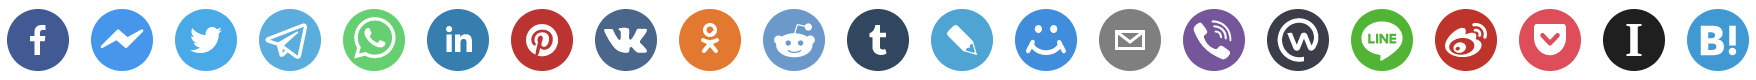
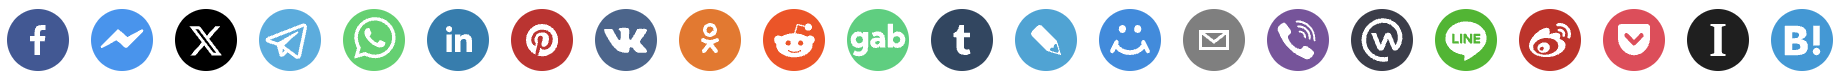
add GabShareButton and GabIcon
https://github.com/nygardk/react-share/pull/425

diff --git a/src/GabIcon.ts b/src/GabIcon.ts
@@ -1,0 +1,9 @@
+import createIcon from './hocs/createIcon';
+
+const GabIcon = createIcon({
+  color: '#00d178',
+  networkName: 'gab',
+  path: 'm17.0506,23.97457l5.18518,0l0,14.23933c0,6.82699 -3.72695,10.09328 -9.33471,10.09328c-2.55969,0 -4.82842,-0.87286 -6.22084,-2.0713l2.07477,-3.88283c1.19844,0.81051 2.33108,1.29543 3.85511,1.29543c2.75366,0 4.44049,-1.97432 4.44049,-4.82149l0,-0.87286c-1.16728,1.39242 -2.81947,2.0713 -4.63446,2.0713c-4.44048,0 -7.81068,-3.68885 -7.81068,-8.28521c0,-4.59289 3.37019,-8.28174 7.81068,-8.28174c1.81499,0 3.46718,0.67888 4.63446,2.0713l0,-1.55521zm-3.62997,11.39217c1.97777,0 3.62997,-1.6522 3.62997,-3.62652c0,-1.97432 -1.6522,-3.62305 -3.62997,-3.62305c-1.97778,0 -3.62997,1.64873 -3.62997,3.62305c0,1.97432 1.65219,3.62652 3.62997,3.62652zm25.7077,4.13913l-5.18518,0l0,-1.29197c-1.00448,1.13264 -2.3969,1.81152 -4.21188,1.81152c-3.62997,0 -5.63893,-2.52504 -5.63893,-5.4034c0,-4.27076 5.251,-5.85715 9.78846,-4.49937c-0.09698,-1.39241 -0.9733,-2.39343 -2.78829,-2.39343c-1.26426,0 -2.72248,0.48492 -3.62997,1.00102l-1.5552,-3.72003c1.19844,-0.77587 3.40136,-1.55174 5.96452,-1.55174c3.78931,0 7.25648,2.13365 7.25648,7.95962l0,8.08777zm-5.18518,-6.14809c-2.42806,-0.77587 -4.66563,-0.3533 -4.66563,1.36124c0,1.00101 0.84168,1.6799 1.84616,1.6799c1.20191,0 2.56315,-0.96984 2.81947,-3.04115zm13.00626,-17.66495l0,9.83695c1.16727,-1.39242 2.81946,-2.0713 4.63445,-2.0713c4.44048,0 7.81068,3.68885 7.81068,8.28174c0,4.59636 -3.37019,8.28521 -7.81068,8.28521c-1.81499,0 -3.46718,-0.67888 -4.63445,-2.0713l0,1.55174l-5.18519,0l0,-23.81304l5.18519,0zm3.62997,19.67391c1.97777,0 3.62997,-1.6522 3.62997,-3.62652c0,-1.97432 -1.6522,-3.62305 -3.62997,-3.62305c-1.97778,0 -3.62997,1.64873 -3.62997,3.62305c0,1.97432 1.65219,3.62652 3.62997,3.62652zm0,0',
+});
+
+export default GabIcon;

diff --git a/demo/Demo.tsx b/demo/Demo.tsx
@@ -9,6 +9,8 @@ import {
   FacebookMessengerShareButton,
   FacebookShareButton,
   FacebookShareCount,
+  GabIcon,
+  GabShareButton,
   HatenaIcon,
   HatenaShareButton,
   HatenaShareCount,
@@ -178,6 +180,18 @@ class Demo extends Component {
           <div>
             <RedditShareCount url={shareUrl} className="Demo__some-network__share-count" />
           </div>
+        </div>
+
+        <div className="Demo__some-network">
+          <GabShareButton
+            url={shareUrl}
+            title={title}
+            windowWidth={660}
+            windowHeight={640}
+            className="Demo__some-network__share-button"
+          >
+            <GabIcon size={32} round />
+          </GabShareButton>
         </div>
 
         <div className="Demo__some-network">

diff --git a/src/GabShareButton.ts b/src/GabShareButton.ts
@@ -1,0 +1,30 @@
+import assert from './utils/assert';
+import objectToGetParams from './utils/objectToGetParams';
+import createShareButton from './hocs/createShareButton';
+
+function gabLink(url: string, { title }: { title?: string }) {
+  assert(url, 'gab.url');
+
+  return (
+    'https://gab.com/compose' +
+    objectToGetParams({
+      url,
+      text: title,
+    })
+  );
+}
+
+const GabShareButton = createShareButton<{ title?: string }>(
+  'gab',
+  gabLink,
+  props => ({
+    title: props.title,
+  }),
+  {
+    windowWidth: 660,
+    windowHeight: 640,
+    windowPosition: 'windowCenter',
+  },
+);
+
+export default GabShareButton;

diff --git a/src/index.ts b/src/index.ts
@@ -28,6 +28,8 @@ export { default as PocketIcon } from './PocketIcon';
 export { default as PocketShareButton } from './PocketShareButton';
 export { default as RedditIcon } from './RedditIcon';
 export { default as RedditShareButton } from './RedditShareButton';
+export { default as GabShareButton } from './GabShareButton';
+export { default as GabIcon } from './GabIcon';
 export { default as RedditShareCount } from './RedditShareCount';
 export { default as TelegramIcon } from './TelegramIcon';
 export { default as TelegramShareButton } from './TelegramShareButton';

diff --git a/README.md b/README.md
@@ -32,6 +32,7 @@
   - Pocket
   - Instapaper
   - Hatena
+  - Gab
   - email
 - share counts for
   - Facebook
@@ -76,6 +77,7 @@ npm install react-share
 import {
   EmailShareButton,
   FacebookShareButton,
+  GabShareButton,
   HatenaShareButton,
   InstapaperShareButton,
   LineShareButton,
@@ -163,6 +165,7 @@ import {
   EmailIcon,
   FacebookIcon,
   FacebookMessengerIcon,
+  GabIcon,
   HatenaIcon,
   InstapaperIcon,
   LineIcon,

diff --git a/.changeset/brave-chicken-train.md b/.changeset/brave-chicken-train.md
@@ -1,0 +1,5 @@
+---
+"react-share": minor
+---
+
+Added `GabShareButton` and `GabIcon` to share on [gab.com](https://gab.com). Originally implemented [here](https://github.com/nygardk/react-share/pull/425).
